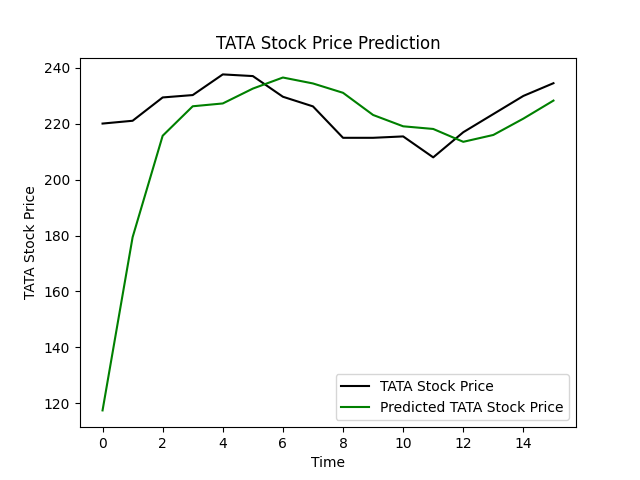
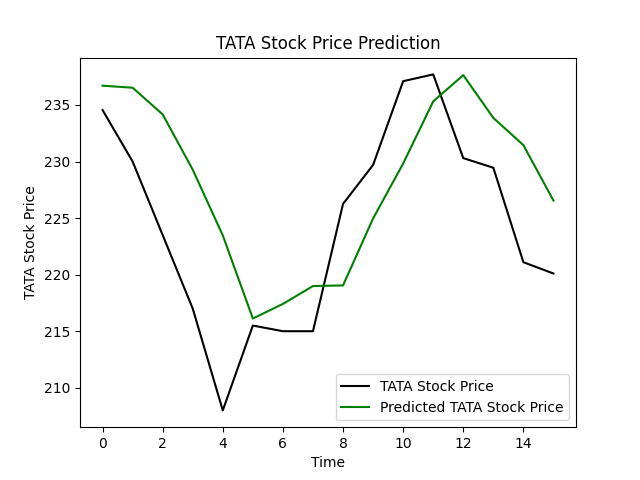
pushing all changes

diff --git a/Misc/complier.py b/Misc/complier.py
@@ -3,48 +3,41 @@ import numpy as np
 import matplotlib.pyplot as plt
 import yfinance as yf
 from copy import deepcopy
+from sys import exit
 
 url = 'https://raw.githubusercontent.com/mwitiderrick/stockprice/master/NSE-TATAGLOBAL.csv'
-dataset_train = pd.read_csv(url)
+dataset_train = pd.read_csv(url)[::-1].reset_index(drop=True)
 training_set = dataset_train.iloc[:, 1:2].values
-# print(dataset_train.head())
-print(dataset_train.head(-1))
+print(training_set[:5])
 
-print('--------------------------------------------------')
+dataset_train = dataset_train.set_index(dataset_train['Date'])
+dataset_train = dataset_train.drop('Date', axis=1)
+training_set = dataset_train['Open'].values
+print(training_set[:5])
+exit()
 
 url = 'https://raw.githubusercontent.com/mwitiderrick/stockprice/master/tatatest.csv'
-dataset_test = pd.read_csv(url)
+dataset_test = pd.read_csv(url)[::-1].reset_index(drop=True)
 real_stock_price = dataset_test.iloc[:, 1:2].values
-# print(dataset_test.head())
-print(dataset_test)
 
+dataset_total = pd.concat((dataset_train, dataset_test), axis=0).reset_index(drop=True)
+dataset_total = dataset_total.set_index(dataset_total['Date'])
+dataset_total = dataset_total.drop('Date', axis=1)
+print(dataset_train[:4])
+print(dataset_train[-4:])
 print('--------------------------------------------------')
 
-dataset_total = pd.concat((dataset_train, dataset_test), axis=0)
-print(dataset_total.head(-1))
+tata_info = yf.Ticker('TATACONSUM.NS')
+tata_df = tata_info.history(period='max',
+                            interval='1d',
+                            actions=False).reset_index(drop=False)
+date_start = dataset_train.index.values[0]
+date_end = dataset_train.index.values[-1]
+ind_start = tata_df.loc[tata_df['Date'] == date_start].index.values[0]
+ind_end = tata_df.loc[tata_df['Date'] == date_end].index.values[0]
 
-gme_info = yf.Ticker('GME')
-gme_df = gme_info.history(period='2y',
-                          interval='1h',
-                          actions=False)
+tata_dfsub = tata_df.iloc[ind_start:ind_end+1]
+tata_dfsub = tata_dfsub.set_index('Date')
 
-gme_open = gme_df.iloc[:, 1:2].values
-gme_train = gme_open[ : 2500]
-
-X_train = []
-y_train = []
-
-for i in range(60, len(gme_train)):
-    X_train.append(gme_train[i-60: i, 0])
-    y_train.append(gme_train[i, 0])
-
-X_train, y_train = np.array(X_train), np.array(y_train)
-
-x = np.array([1, 1, 1]).reshape(3, 1)
-x1 = deepcopy(x)
-l = []
-l.append(x[:,0])
-l.append(x1[:,0])
-l = np.array(l)
-
-
+print(tata_dfsub[:4])
+print(tata_dfsub[-4:])

diff --git a/Misc/gme_lstm.py b/Misc/gme_lstm.py
@@ -55,11 +55,51 @@ for i in range(60, 60 + len(gme_test)):
 X_test = np.array(X_test)
 X_test = X_test.reshape((X_test.shape[0], X_test.shape[1], 1))
 
+print(model.predict(X_test[-1].reshape(1, len(X_test[-1]), 1)))
+print(X_test[-1].reshape(1, len(X_test[-1]), 1))
 predicted_price = model.predict(X_test)
 predicted_price = sc.inverse_transform(predicted_price)
 
-plt.plot(gme_test, label='real')
-plt.plot(predicted_price, label='predicted')
-plt.legend()
-plt.show()
+# plt.plot(gme_test, label='real')
+# plt.plot(predicted_price, label='predicted')
+# plt.legend()
+# plt.show()
 
+def future_prediction(data=None, model=None, pred_amt=None, lookback=None):
+    if len(data) < lookback:
+        print('To big of a lookback')
+        return None
+
+    from sklearn.preprocessing import MinMaxScaler
+    Mm = MinMaxScaler(feature_range=(0,1))
+    data_scaled = Mm.fit_transform(data.reshape((-1,1))).T[0]
+
+    pred_vals = []
+    for i in range(pred_amt):
+        if -lookback + i <= -1:
+            data_lb = -lookback + i
+            pred_lb = i
+            inp_data = np.array(data_scaled[data_lb :])
+            inp_pred = np.array(pred_vals[ : i])
+            inp = np.hstack((inp_data, inp_pred))
+            print(inp_data)
+            print(inp_pred)
+            print(inp)
+            print(inp.reshape((-1,1)))
+            pred = model.predict(inp.reshape((-1, 1)))
+            pred_vals.append(pred)
+
+        if -lookback + i >= 0:
+            inp = pred_vals[i - lookback : i]
+            pred = model.predict(inp.reshape((-1,1)))
+            pred_vals.append(pred)
+
+    return Mm.inverse_transform(np.array(pred_vals))
+
+future_price = future_prediction(data=gme_open, model=model, pred_amt=15, lookback=60)
+gme = gme_open[int(len(gme_open)) * .1 : ]
+time = len(gme) + 15
+time = np.arange(0, 1, time)
+plt.plot(time[ : len(gme)], gme)
+plt.plot(time[-15 : ], future_price)
+plt.show()

diff --git a/Misc/tata_lstm.py b/Misc/tata_lstm.py
@@ -1,11 +1,14 @@
 import numpy as np
 import pandas as pd
 import matplotlib.pyplot as plt
+from sys import exit
 
 url = 'https://raw.githubusercontent.com/mwitiderrick/stockprice/master/NSE-TATAGLOBAL.csv'
-dataset_train = pd.read_csv(url)
+# dataset_train = pd.read_csv(url)
+dataset_train = pd.read_csv(url)[::-1].reset_index(drop=True)
+# print(dataset_train.head())
 training_set = dataset_train.iloc[:, 1:2].values
-
+# print(training_set[:5])
 from sklearn.preprocessing import MinMaxScaler
 sc = MinMaxScaler(feature_range=(0,1))
 training_set_scaled = sc.fit_transform(training_set)
@@ -21,6 +24,7 @@ X_train, y_train = np.array(X_train), np.array(y_train)
 
 X_train = np.reshape(X_train, (X_train.shape[0], X_train.shape[1], 1))
 
+'''
 from keras.models import Sequential
 from keras.layers import LSTM, Dropout, Dense
 
@@ -43,13 +47,17 @@ model.add(Dense(units=1))
 model.compile(optimizer='adam', loss='mean_squared_error')
 
 model.fit(X_train, y_train, epochs=100, batch_size=32)
+'''
 
 # Test set
 url = 'https://raw.githubusercontent.com/mwitiderrick/stockprice/master/tatatest.csv'
-dataset_test = pd.read_csv(url)
+dataset_test = pd.read_csv(url)[::-1].reset_index(drop=True)
 real_stock_price = dataset_test.iloc[:, 1:2].values
+dataset_total = pd.concat((dataset_train['Open'], dataset_test['Open']), axis=0).reset_index(drop=True)
 
-dataset_total = pd.concat((dataset_train['Open'], dataset_test['Open']), axis=0)
+# inputs = dataset_total[len(dataset_total) - len(dataset_test) - 60 : ]
+# print(inputs.iloc[-4:])
+
 inputs = dataset_total[len(dataset_total) - len(dataset_test) - 60 : ].values
 inputs = inputs.reshape(-1, 1)
 inputs = sc.transform(inputs)

diff --git a/Misc/complier2.py b/Misc/complier2.py
@@ -1,8 +1,17 @@
+import pandas as pd
 import numpy as np
 import matplotlib.pyplot as plt
+from sys import exit
 
-x = np.array([1, 2, 3, 4, 5])
-x = x.reshape((x.shape[0], 1))
+x0 = 0 * np.ones(3)
+x1 = 1 * np.ones(3)
+x2 = 2 * np.ones(3)
 
-plt.plot(x)
-plt.show()
+print(x0)
+print(x0.T)
+print(x0.reshape((-1,1)).T)
+print(x0.reshape((-1,1)).T[0])
+
+from sklearn.preprocessing import MinMaxScaler
+Mm = MinMaxScaler(feature_range=(0,1))
+data_scaled = Mm.fit_transform(data.reshape((-1,1))).T[0]
